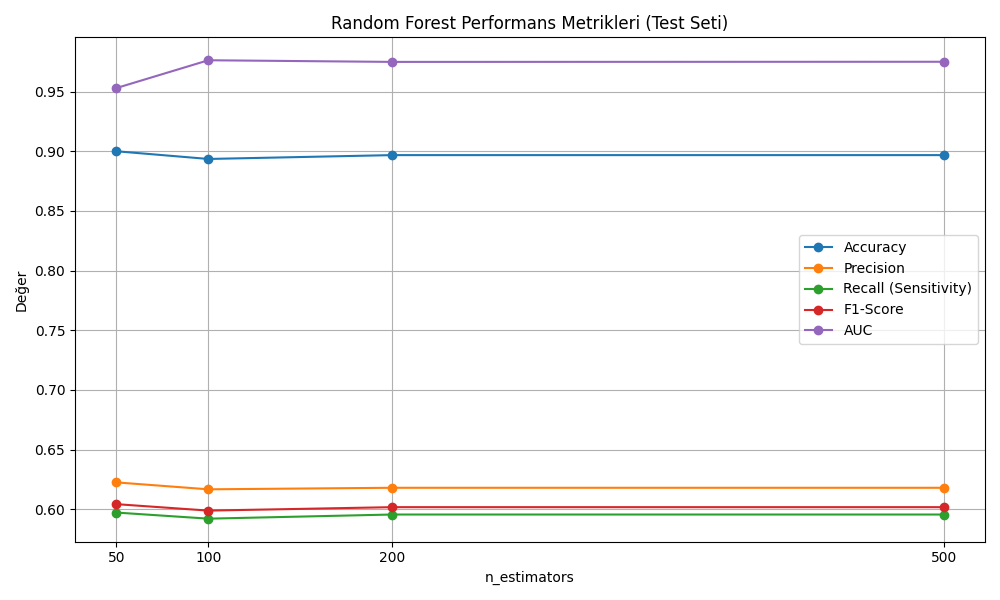
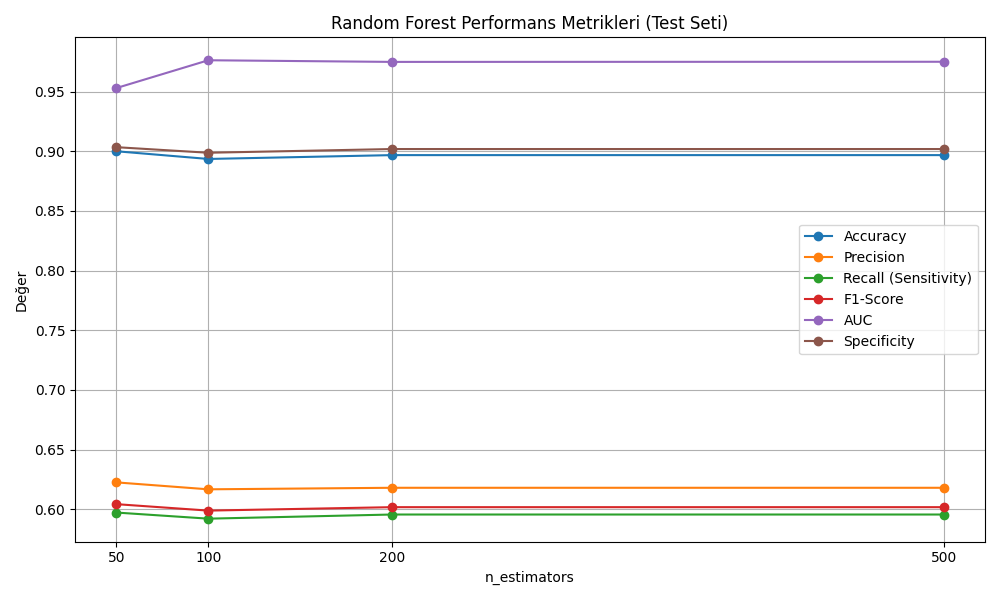
adding some features

Changed region(s): [[0.806, 0.39, 0.992, 0.6], [0.093, 0.24, 0.961, 0.27]]

diff --git a/src/article.py b/src/article.py
@@ -122,6 +122,16 @@ for n in n_trees_list:
     f1 = f1_score(y_test, y_pred, average='macro')
     auc = roc_auc_score(y_test_bin, y_prob, average='macro', multi_class='ovr')
 
+    # --- Specificity Hesaplama ---
+    specificities = []
+    for label in class_names:
+        binary_y_test = (y_test == label).astype(int)
+        binary_y_pred = (y_pred == label).astype(int)
+        tn, fp, fn, tp = confusion_matrix(binary_y_test, binary_y_pred).ravel()
+        specificity = tn / (tn + fp) if (tn + fp) != 0 else 0
+        specificities.append(specificity)
+    specificity_macro = np.mean(specificities)
+
     # --- Confusion Matrix ---
     cm = confusion_matrix(y_test, y_pred, labels=class_names)
     sns.heatmap(cm, annot=True, fmt='d', xticklabels=class_names, yticklabels=class_names, cmap='Blues')
@@ -157,7 +167,8 @@ for n in n_trees_list:
         'Precision': prec,
         'Recall (Sensitivity)': recall,
         'F1-Score': f1,
-        'AUC': auc
+        'AUC': auc,
+        'Specificity': specificity_macro
     })
 
 # ==============================================
@@ -172,7 +183,7 @@ print(results_df)
 # 📈 SONUÇ ÖZETİ – GÖRSELLEŞTİRME
 # ==============================================
 
-metrics = ['Accuracy', 'Precision', 'Recall (Sensitivity)', 'F1-Score', 'AUC']
+metrics = ['Accuracy', 'Precision', 'Recall (Sensitivity)', 'F1-Score', 'AUC', 'Specificity']
 plt.figure(figsize=(10, 6))
 for metric in metrics:
     plt.plot(results_df['n_estimators'], results_df[metric], marker='o', label=metric)
